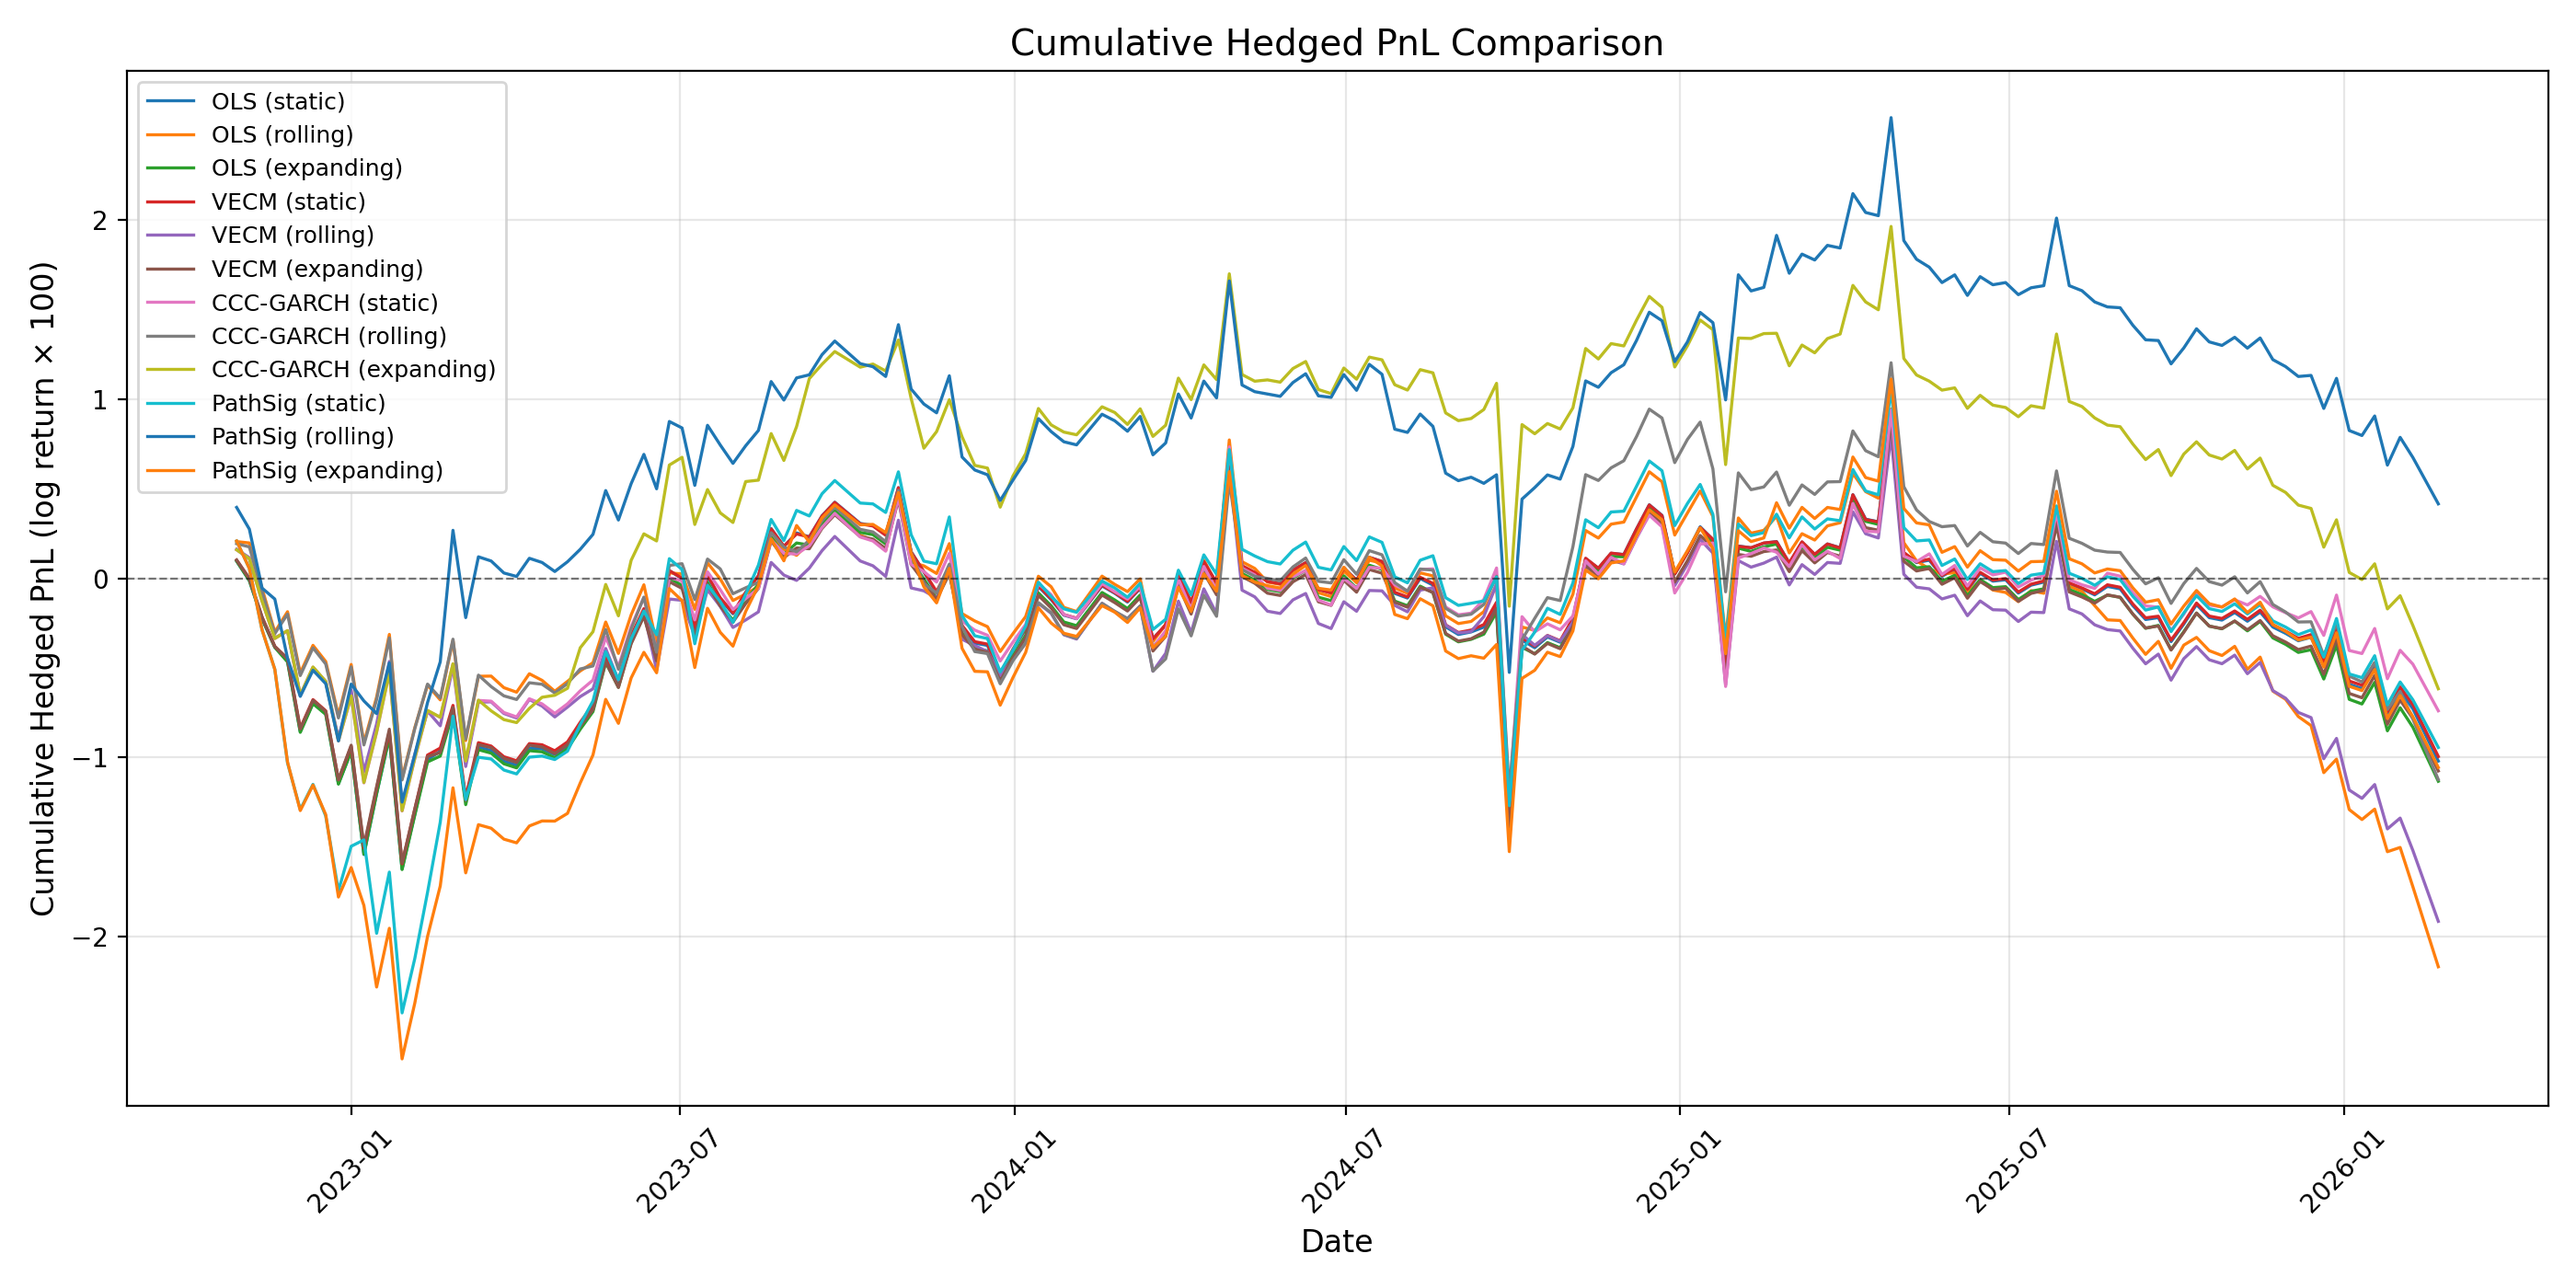
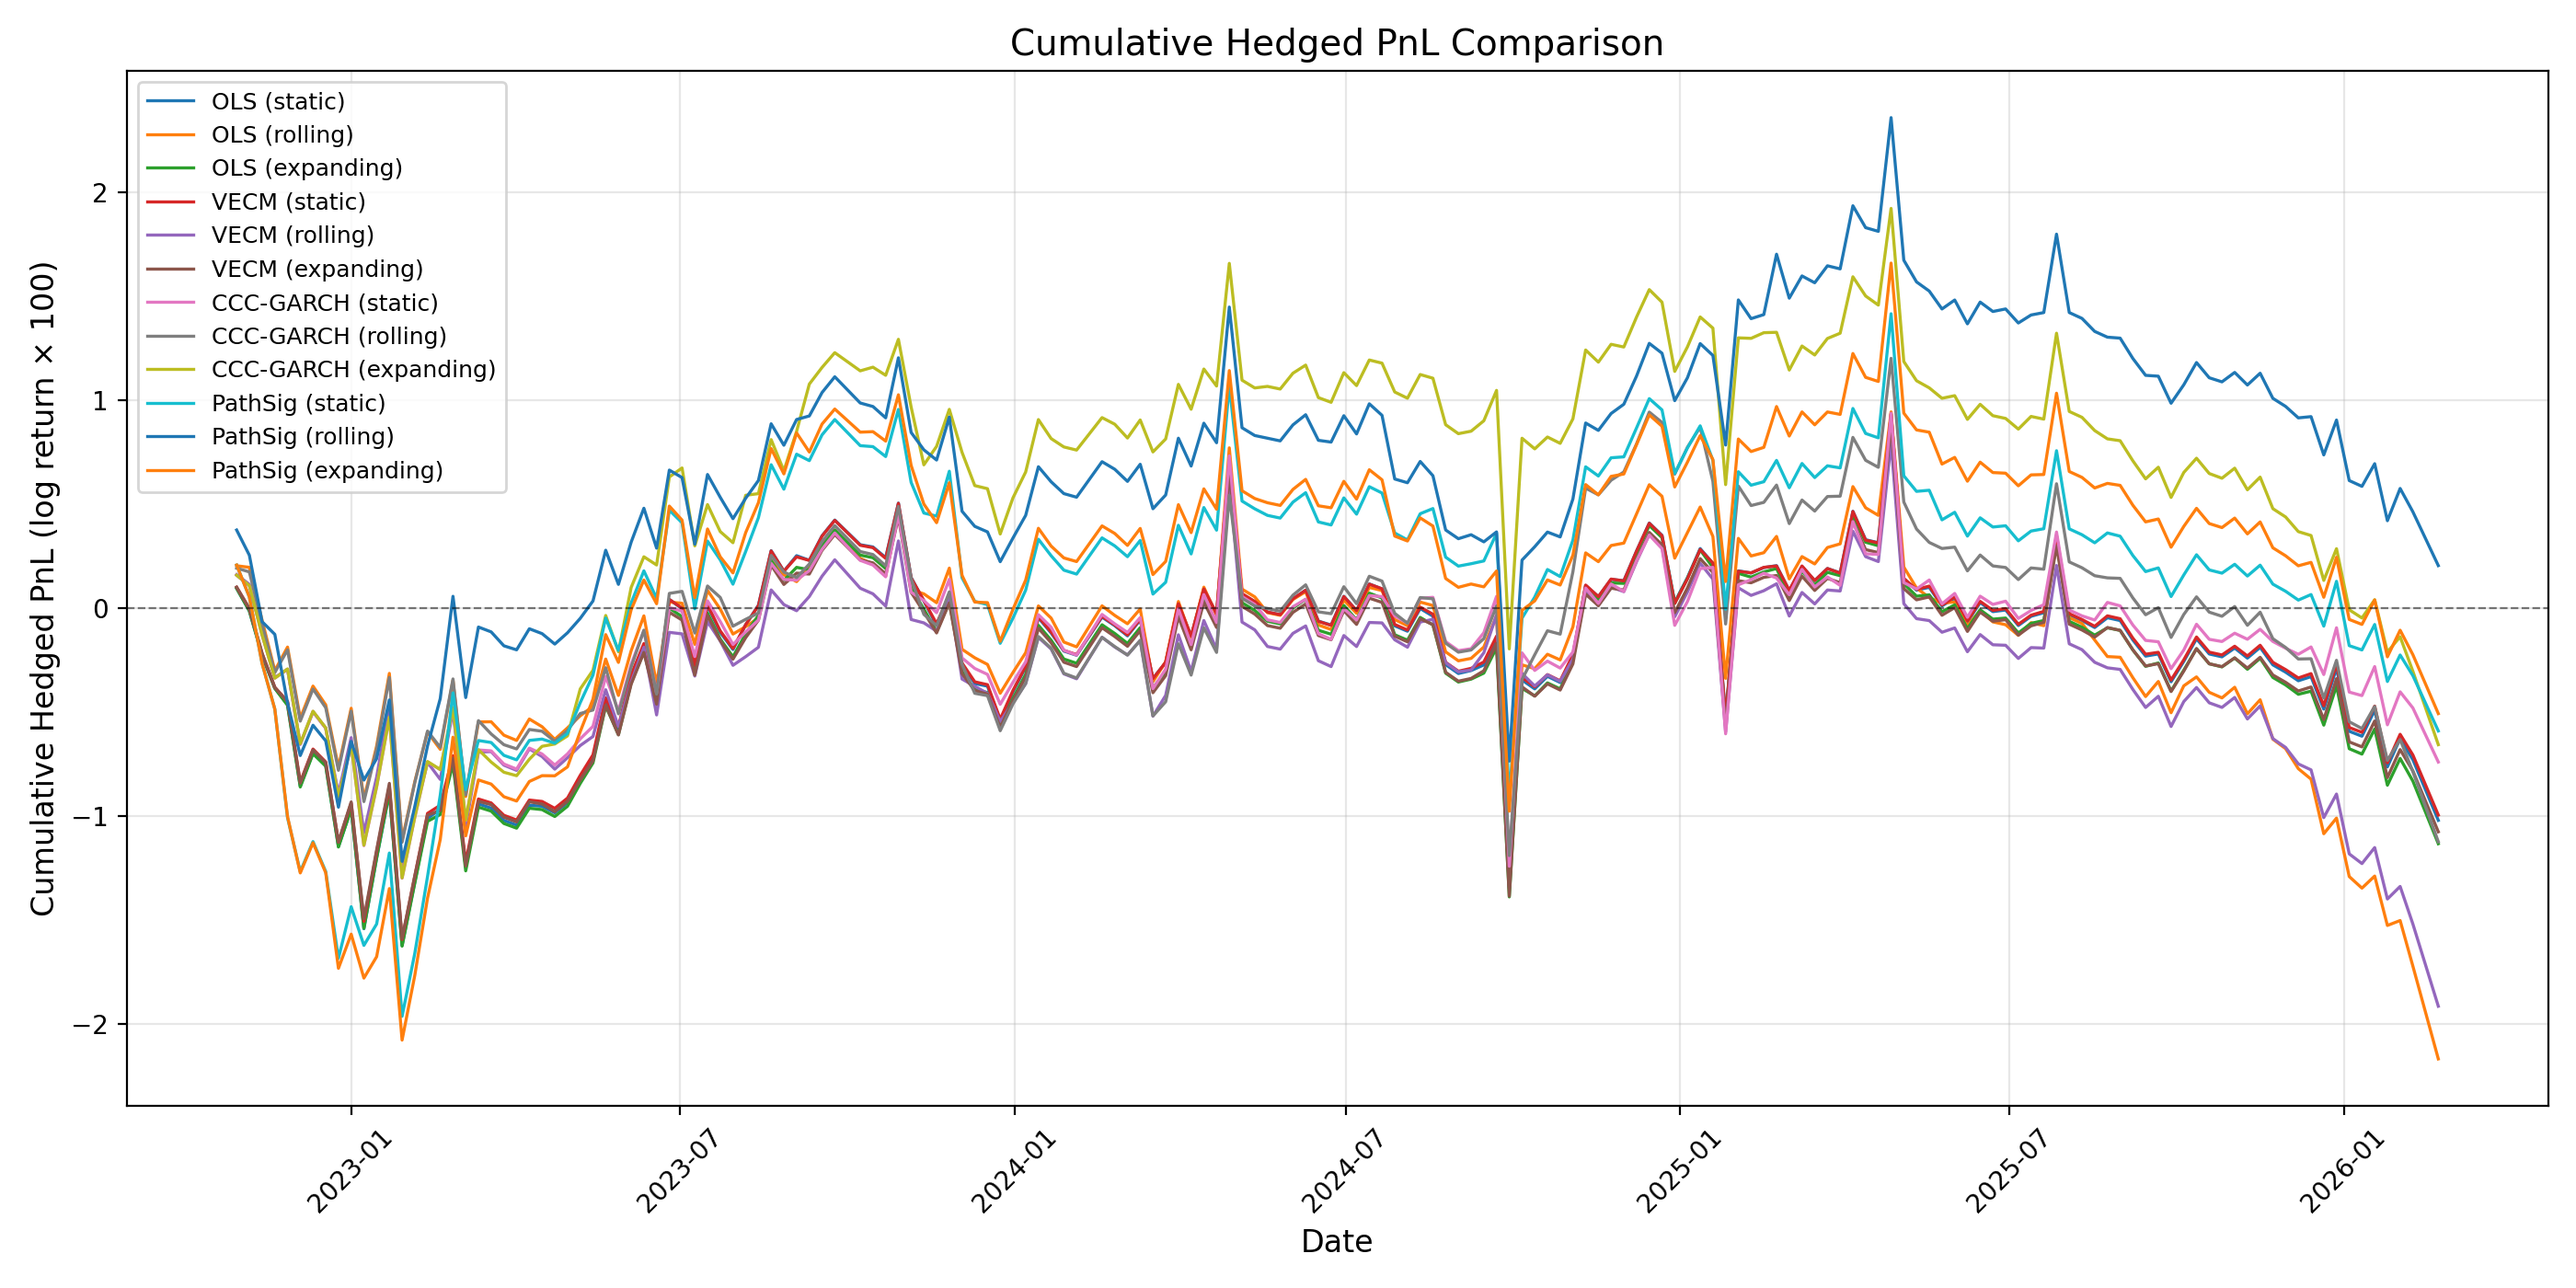
add clamp to hedge ratio

Changed region(s): [[0.0932, 0.1536, 0.9632, 0.7986], [0.8079, 0.2457, 0.9011, 0.3071]]

diff --git a/src/models/mgarch.py b/src/models/mgarch.py
@@ -2,7 +2,6 @@ import numpy as np
 import pandas as pd
 import warnings
 
-# Suppress rpy2 warnings that clutter the terminal
 warnings.filterwarnings("ignore", category=UserWarning, module="rpy2")
 
 import rpy2.robjects as ro
@@ -10,7 +9,6 @@ from rpy2.robjects import pandas2ri, numpy2ri
 from rpy2.robjects.packages import importr
 from .base import BaseHedgeModel  
 
-# Activate automatic conversions
 pandas2ri.activate()
 numpy2ri.activate()
 
@@ -23,16 +21,9 @@ except Exception as e:
 
 
 class BaseMGARCHModel(BaseHedgeModel):
-    """
-    A parent class for R-based MGARCH models. 
-    """
     def __init__(self, name, mgarch_type, window_type='static', window_size=None, refit_step=1):
-        # Pass the rolling config up to the Python master loop
         super().__init__(name=name, window_type=window_type, window_size=window_size, refit_step=refit_step)
-        self.mgarch_type = mgarch_type.upper()  # "CCC" or "DCC"
-        
-        # Create a unique variable name in the R environment to avoid collisions 
-        # if CCC and DCC are running simultaneously in the same pipeline.
+        self.mgarch_type = mgarch_type.upper()
         self.r_fit_name = f"fit_{id(self)}"
 
     def fit(self, train_data):
@@ -56,12 +47,10 @@ class BaseMGARCHModel(BaseHedgeModel):
             cf_names <- names(cfs)
             cf_vals <- as.numeric(cfs)
 
-            # rcor returns an array of shape (2, 2, T). We just grab the [1, 2] element from the first time step.
             corrs <- rcor({self.r_fit_name})
             static_corr <- corrs[1, 2, 1]
         """)
         
-        # Save the latest parameters to a Python dictionary
         names = np.array(ro.globalenv["cf_names"])
         vals = np.array(ro.globalenv["cf_vals"])
         self.latest_params = dict(zip(names, vals))
@@ -90,7 +79,6 @@ class BaseMGARCHModel(BaseHedgeModel):
         ro.globalenv["n_test"] = n_test
 
         if self.window_type == 'static':
-            # Static: fit once on training data, roll conditional variances forward
             ro.r(f"""
                 uspec <- ugarchspec(
                     variance.model = list(model = "sGARCH", garchOrder = c(1, 1)),
@@ -120,13 +108,13 @@ class BaseMGARCHModel(BaseHedgeModel):
                 static_corr <- corrs[1, 2, 1]
             """)
         else:
-            # Rolling or expanding: use dccroll to periodically re-estimate parameters
             refit_window = "moving" if self.window_type == "rolling" else "recursive"
             ro.globalenv["refit_every"] = self.refit_step
             ro.globalenv["refit_window"] = refit_window
 
             if self.window_type == "rolling":
                 ro.globalenv["window_size"] = self.window_size
+
 
             ro.r(f"""
                 uspec <- ugarchspec(
@@ -163,6 +151,9 @@ class BaseMGARCHModel(BaseHedgeModel):
             """)
 
         h_array = np.array(ro.r("h_mgarch"))
+        
+        # Clamp hedge ratios and record them
+        h_array = np.clip(h_array, self.h_min, self.h_max)
         self.hedge_ratio_history.extend(h_array.tolist())
 
         try:
@@ -183,8 +174,6 @@ class BaseMGARCHModel(BaseHedgeModel):
             return f"Dynamic (Avg: {avg_h:.4f})"
         return "N/A"
 
-
-# --- The Actual Models Used in main.py ---
 
 class CCCHedgeModel(BaseMGARCHModel):
     def __init__(self, window_type='static', window_size=None, refit_step=1):

diff --git a/src/models/vecm.py b/src/models/vecm.py
@@ -5,7 +5,6 @@ from .base import BaseHedgeModel
 
 class VECMHedgeModel(BaseHedgeModel):
     def __init__(self, window_type='static', window_size=None, refit_step=1, max_lags=12):
-        # Pass the rolling config up to the parent
         super().__init__(name="VECM", window_type=window_type, window_size=window_size, refit_step=refit_step)
         self.max_lags = max_lags
         self.chosen_lag = None
@@ -13,48 +12,38 @@ class VECMHedgeModel(BaseHedgeModel):
         self.h_vecm = None
 
     def fit(self, train_data):
-        # VECM needs raw price levels to find cointegration, not log returns
         data = np.log(train_data[["CNY", "CNH"]]).dropna()
         
-        # 1. Select Lags
         lag_order = select_order(data, maxlags=self.max_lags, deterministic="ci")
         self.chosen_lag = max(lag_order.bic, 1)
         
-        # 2. Fit Model
         model = VECM(data, k_ar_diff=self.chosen_lag, coint_rank=1, deterministic="ci")
         self.result = model.fit()
         
-        # Calculate hedge ratio from residuals
         cov_matrix = np.cov(self.result.resid[:, 0], self.result.resid[:, 1])
         self.h_vecm = cov_matrix[0, 1] / cov_matrix[1, 1]
 
-        # Track the ratio over time
-        self.hedge_ratio_history.append(self.h_vecm)
-
-        # Print model-specific stats ONLY if static, to avoid terminal spam during rolling windows
         if self.window_type == 'static':
             print(f"\n[{self.name}] Fitted with lag={self.chosen_lag}")
             print(f"[{self.name}] Cointegration vector beta: {self.result.beta.flatten()}")
 
     def get_model_attributes(self):
         if self.chosen_lag is not None:
-            # The alpha attribute is a matrix where row 0 is CNY and row 1 is CNH
             alpha_cny = self.result.alpha[0, 0] if self.result is not None else np.nan
             alpha_cnh = self.result.alpha[1, 0] if self.result is not None else np.nan
-            
             return f"Lag={self.chosen_lag}, α_cny={alpha_cny:.4f}, α_cnh={alpha_cnh:.4f}"
         return "Not fitted yet"
 
     def predict_step(self, test_step_data):
         r_test_cny = test_step_data["r_CNY"].values
         r_test_cnh = test_step_data["r_CNH"].values
-        return r_test_cny - self.h_vecm * r_test_cnh
+        
+        h = self._clamp_ratio(self.h_vecm)
+        return r_test_cny - h * r_test_cnh
 
     def get_residuals(self):
-        """Returns residuals safely packaged as a dictionary for the diagnostics module."""
         if self.result is None:
             raise ValueError("Model must be fitted before getting residuals.")
-        
         return {
             "CNY": self.result.resid[:, 0],
             "CNH": self.result.resid[:, 1]

diff --git a/src/models/base.py b/src/models/base.py
@@ -1,17 +1,26 @@
 import numpy as np
 import pandas as pd
 
+# Default hedge ratio bounds — applied to all dynamic models
+H_MIN_DEFAULT = 0.0
+H_MAX_DEFAULT = 1.0
+
+
 class BaseHedgeModel:
-    def __init__(self, name, window_type='static', window_size=None, refit_step=1):
+    def __init__(self, name, window_type='static', window_size=None, refit_step=1,
+                 h_min=H_MIN_DEFAULT, h_max=H_MAX_DEFAULT):
         """
         window_type: 'static', 'rolling', or 'expanding'
         window_size: Integer number of weeks for the lookback window (if 'rolling')
         refit_step: How often to recalculate the hedge ratio (e.g., 4 = every 4 weeks)
+        h_min, h_max: Bounds for clamping the hedge ratio to economically sensible values.
         """
         self.name = f"{name} ({window_type})"
         self.window_type = window_type
         self.window_size = window_size
         self.refit_step = refit_step
+        self.h_min = h_min
+        self.h_max = h_max
         self.hedge_ratio_history = []
 
     def reset(self):
@@ -20,6 +29,15 @@ class BaseHedgeModel:
         (e.g., between the main evaluation and robustness splits).
         """
         self.hedge_ratio_history = []
+
+    def _clamp_ratio(self, h):
+        """
+        Clamps a hedge ratio to [h_min, h_max] and records it.
+        Returns the clamped ratio.
+        """
+        h_clamped = np.clip(h, self.h_min, self.h_max)
+        self.hedge_ratio_history.append(h_clamped)
+        return h_clamped
 
     def fit(self, train_data):
         """Trains the model on a specific slice of data."""
@@ -100,5 +118,3 @@ class BaseHedgeModel:
         var_hedged = np.var(pnl)
         
         return 1 - (var_hedged / var_unhedged)
-
-

diff --git a/src/models/path_sig.py b/src/models/path_sig.py
@@ -144,6 +144,8 @@ class PathSigHedgeModel(BaseHedgeModel):
         Generates hedged PnL for a test chunk.
 
         Prepends training tail for signature window continuity.
+        Computes the effective hedge ratio h_t from the signature,
+        clamps it via the base class, then applies it to produce PnL.
         """
         r_cny_test = test_step_data["r_CNY"].values
         r_cnh_test = test_step_data["r_CNH"].values
@@ -162,18 +164,14 @@ class PathSigHedgeModel(BaseHedgeModel):
             path = self._build_path(r_cny[t - W:t], r_cnh[t - W:t])
             sig = self._compute_signature(path)
 
-            # z_t = Sig(X_t) * r_t^{CNH}  — first element is just r_CNH
-            z_t = sig * r_cnh[t]
-            z_t = z_t.reshape(1, -1)
-            if self.use_scaler:
-                z_t = self.scaler.transform(z_t)
-            predicted_cny = self.ridge_model.predict(z_t)[0]
-            pnl.append(r_cny[t] - predicted_cny)
+            # h_t = β' · Sig(X_t) — the effective hedge ratio
+            h_t = np.dot(self.ridge_model.coef_, sig)
 
-            # Track effective hedge ratio
-            if abs(r_cnh[t]) > 1e-10:
-                h_t = predicted_cny / r_cnh[t]
-                self.hedge_ratio_history.append(h_t)
+            # Clamp and record via base class
+            h_t = self._clamp_ratio(h_t)
+
+            # Hedged PnL
+            pnl.append(r_cny[t] - h_t * r_cnh[t])
 
         return np.array(pnl)
 

diff --git a/src/models/ols.py b/src/models/ols.py
@@ -3,7 +3,6 @@ from .base import BaseHedgeModel
 
 class OLSHedgeModel(BaseHedgeModel):
     def __init__(self, window_type='static', window_size=None, refit_step=1):
-        # Initialize the parent class with the model's name
         super().__init__(name="OLS", window_type=window_type, window_size=window_size, refit_step=refit_step)
         self.h_ols = None
 
@@ -11,19 +10,17 @@ class OLSHedgeModel(BaseHedgeModel):
         r_train_cny = train_data["r_CNY"].values
         r_train_cnh = train_data["r_CNH"].values
         
-        # Calculate static hedge ratio
         cov_matrix = np.cov(r_train_cny, r_train_cnh)
         self.h_ols = cov_matrix[0, 1] / np.var(r_train_cnh, ddof=1)
-
-        # Track the ratio over time
-        self.hedge_ratio_history.append(self.h_ols)
 
     def predict_step(self, test_step_data):
         r_test_cny = test_step_data["r_CNY"].values
         r_test_cnh = test_step_data["r_CNH"].values
         
-        # Calculate hedged returns
-        return r_test_cny - self.h_ols * r_test_cnh
+        # Clamp and record the hedge ratio
+        h = self._clamp_ratio(self.h_ols)
+        
+        return r_test_cny - h * r_test_cnh
 
     def get_hedge_info(self):
         if self.window_type == 'static':
